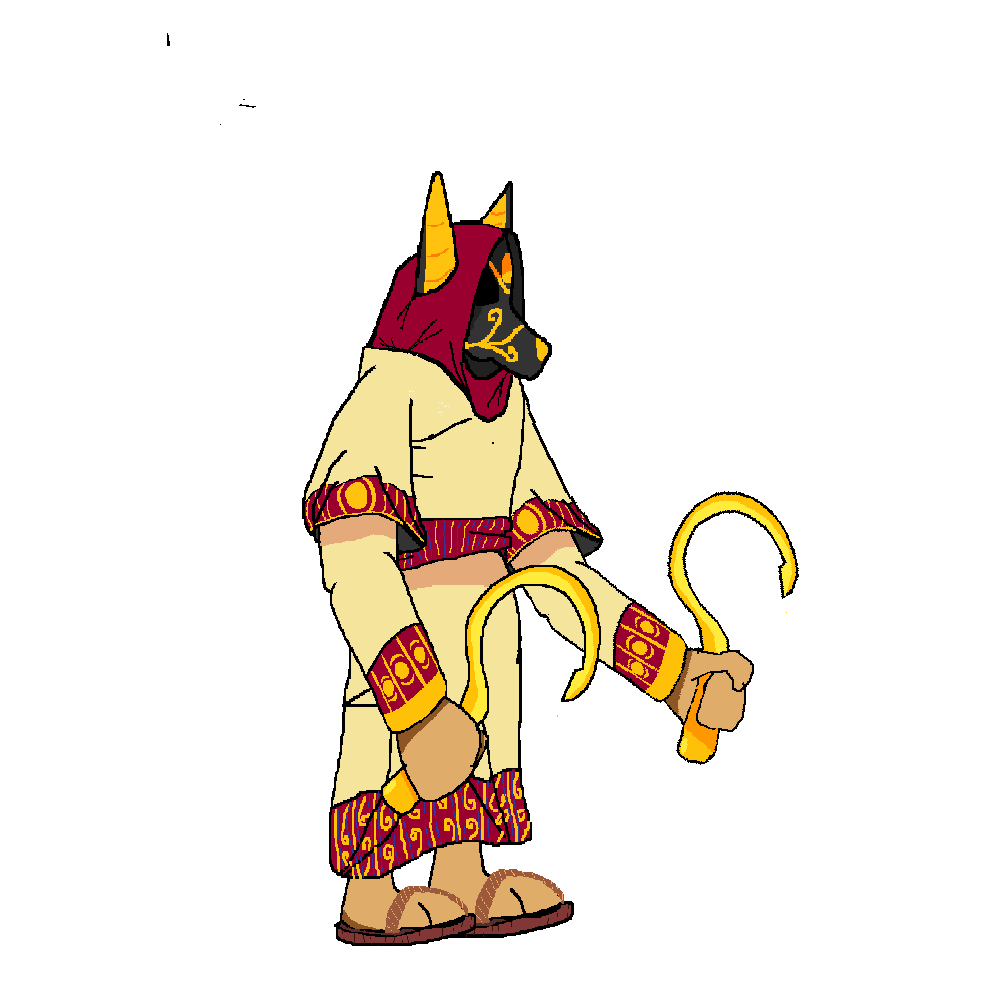
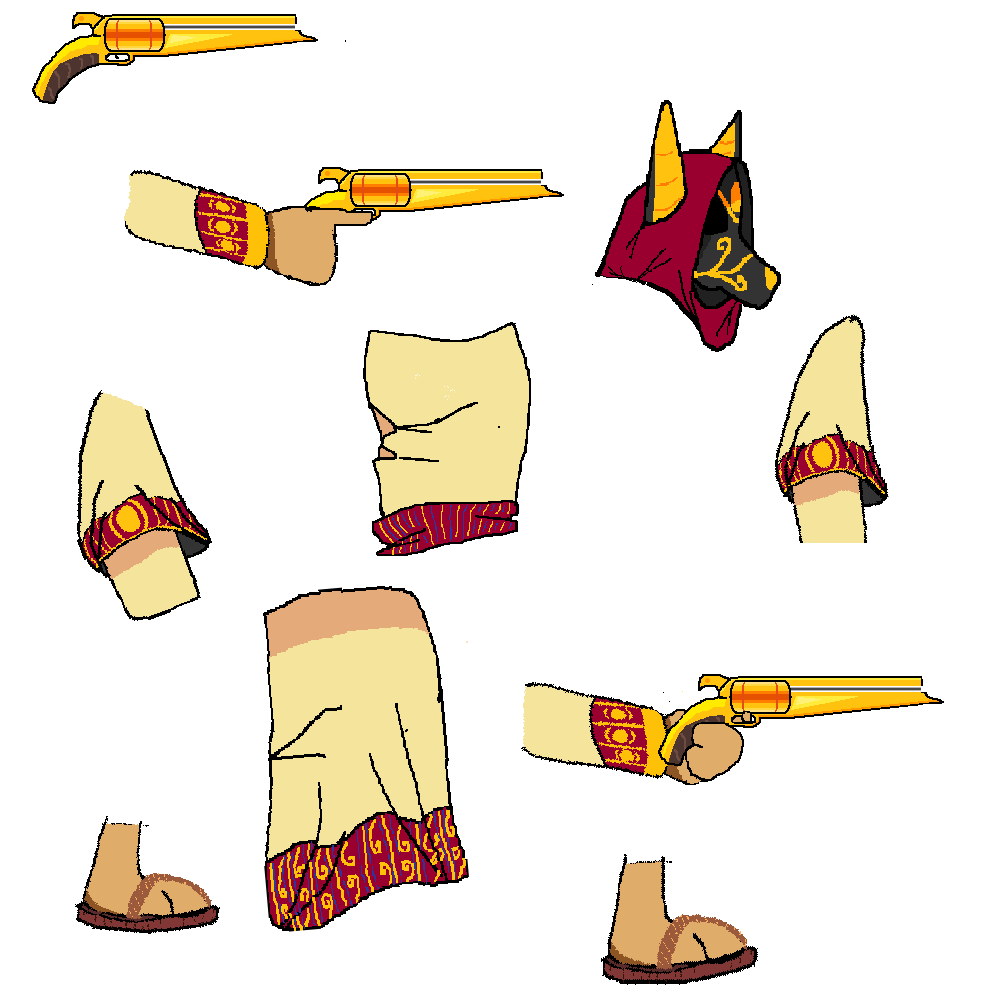
new code

diff --git a/Assets/TextMesh Pro/Scripts/PlayerActions.cs b/Assets/TextMesh Pro/Scripts/PlayerActions.cs
@@ -33,9 +33,9 @@ using UnityEngine.SceneManagement;
             _sickleSound = Resources.Load<AudioClip>("sickle_throw");
             _gunSound = Resources.Load<AudioClip>("gun_shoot");
             if (GetComponent<PlayerAnimator>() == null)
-                gameObject.AddComponent<PlayerAnimator>();
-            if (GetComponent<PlayerHand>() == null)
-                gameObject.AddComponent<PlayerHand>();
+            gameObject.AddComponent<PlayerAnimator>();
+        if (GetComponent<PlayerHand>() == null)
+            gameObject.AddComponent<PlayerHand>();
         if (GameState.Instance != null)
         {
             if (playerCount == "1")
@@ -170,7 +170,10 @@ using UnityEngine.SceneManagement;
         if (_rigidbody != null)
             _rigidbody.velocity = Vector2.zero;
         if (_playerWeapon != null)
-            _playerWeapon.ResetDirection();
+        {
+            _playerWeapon.direction = Vector2.right;
+            _playerWeapon.weapon.transform.position = (Vector2)transform.position + Vector2.right * _playerWeapon.aimDistance;
+        }
         _canShoot = true;
         currentTime = 0f;
     }

diff --git a/Assets/TextMesh Pro/Scripts/PlayerWeapon.cs b/Assets/TextMesh Pro/Scripts/PlayerWeapon.cs
@@ -12,6 +12,7 @@ public class PlayerWeapon : MonoBehaviour {
     private void Start()
     {
         _playerActions = GetComponent<PlayerActions>();
+
         SpriteRenderer sr = weapon.GetComponent<SpriteRenderer>();
         if (sr != null) sr.enabled = false;
 
@@ -37,8 +38,11 @@ public class PlayerWeapon : MonoBehaviour {
             direction = inputDir.normalized;
             weapon.transform.position = (Vector2)transform.position + direction * aimDistance;
 
-            float angle = Mathf.Atan2(direction.y, direction.x) * Mathf.Rad2Deg;
-            _dirIndicator.transform.rotation = Quaternion.Euler(0, 0, angle);
+            if (_dirIndicator != null)
+            {
+                float angle = Mathf.Atan2(direction.y, direction.x) * Mathf.Rad2Deg;
+                _dirIndicator.transform.rotation = Quaternion.Euler(0, 0, angle);
+            }
         }
     }
 
@@ -46,7 +50,6 @@ public class PlayerWeapon : MonoBehaviour {
     {
         direction = Vector2.right;
         weapon.transform.position = (Vector2)transform.position + direction * aimDistance;
-        weapon.transform.rotation = Quaternion.identity;
         if (_dirIndicator != null)
             _dirIndicator.transform.rotation = Quaternion.identity;
     }